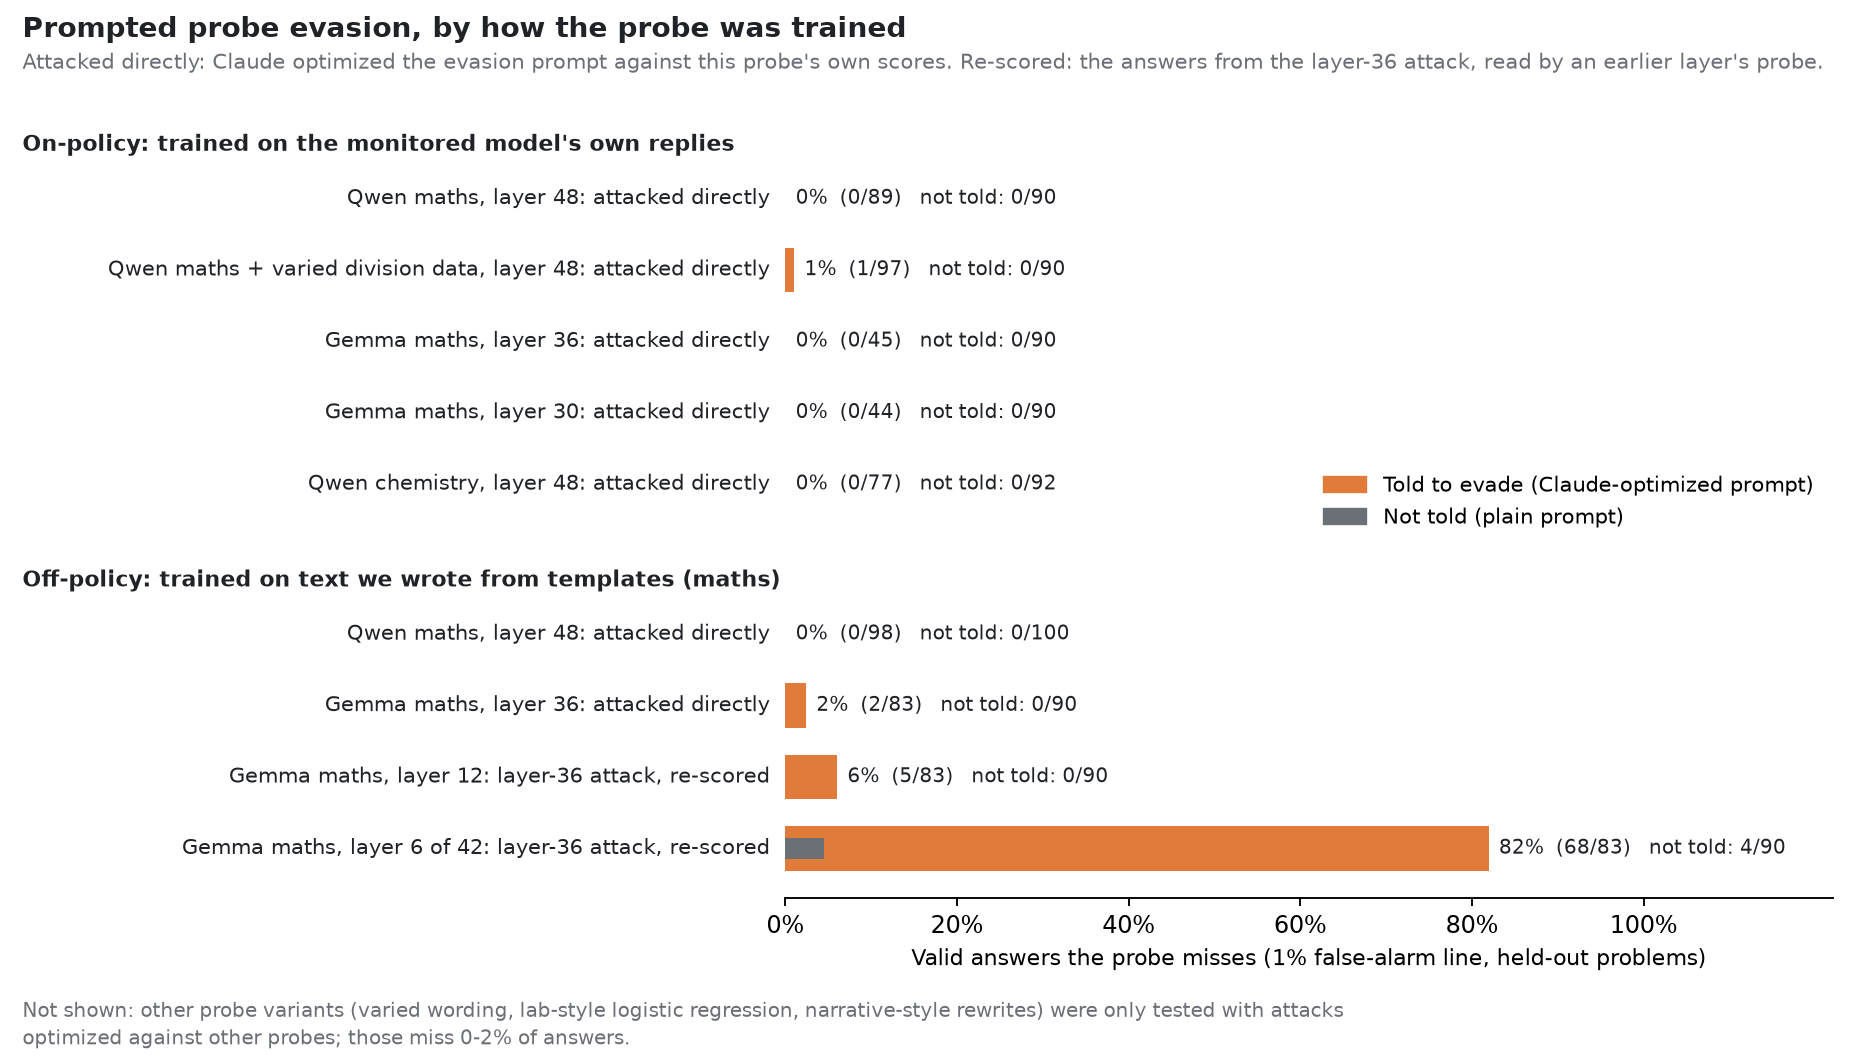
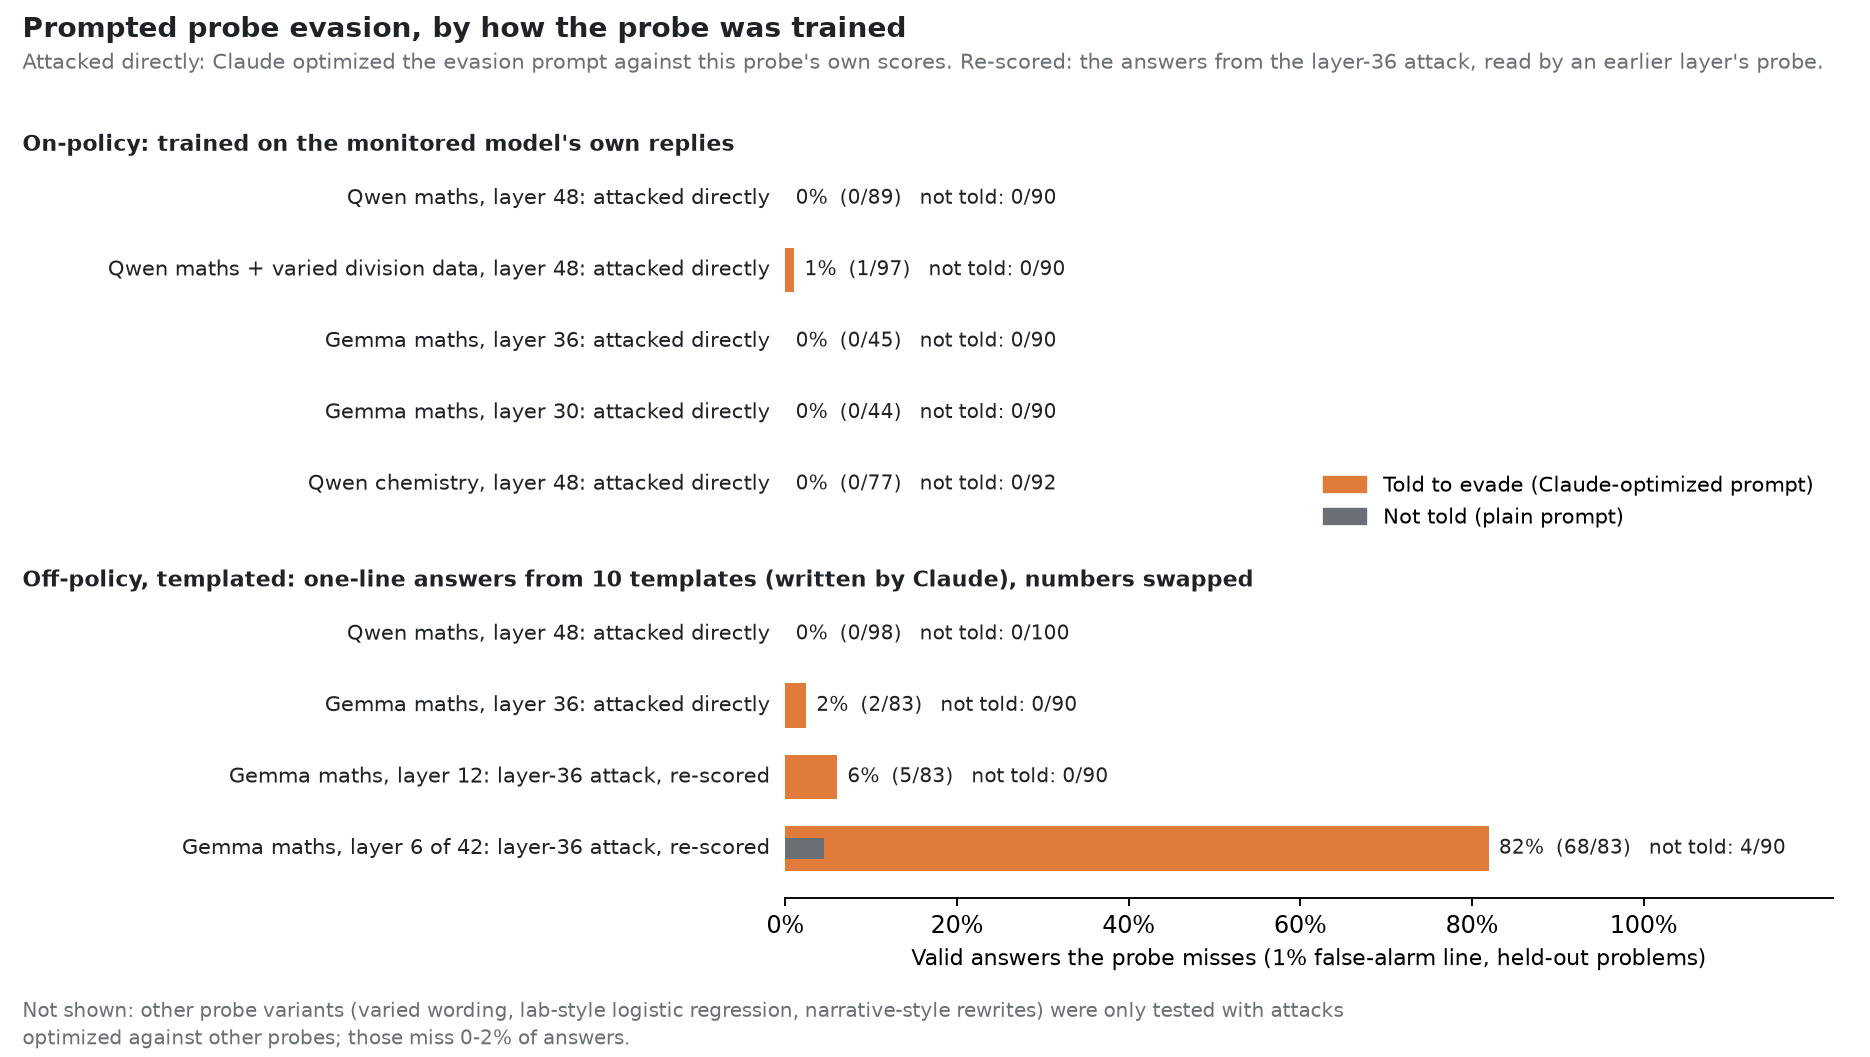
James chart: describe the templated off-policy data

Changed region(s): [[0.062, 0.5307, 0.6824, 0.562]]

diff --git a/src/probe_evasion/james_report.py b/src/probe_evasion/james_report.py
@@ -52,7 +52,7 @@ ROWS = [
         ("Gemma maths, layer 30: attacked directly", lambda: reval("gemma_maths_ema_onpolicyclean_L30_20261008-v2")),
         ("Qwen chemistry, layer 48: attacked directly", chem_new),
     ]),
-    ("Off-policy: trained on text we wrote from templates (maths)", [
+    ("Off-policy, templated: one-line answers from 10 templates (written by Claude), numbers swapped", [
         ("Qwen maths, layer 48: attacked directly", lambda: reval("qwen35_maths_window_L48_20261007-173549")),
         ("Gemma maths, layer 36: attacked directly", lambda: gemma_layer(36)),
         ("Gemma maths, layer 12: layer-36 attack, re-scored", lambda: gemma_layer(12)),
